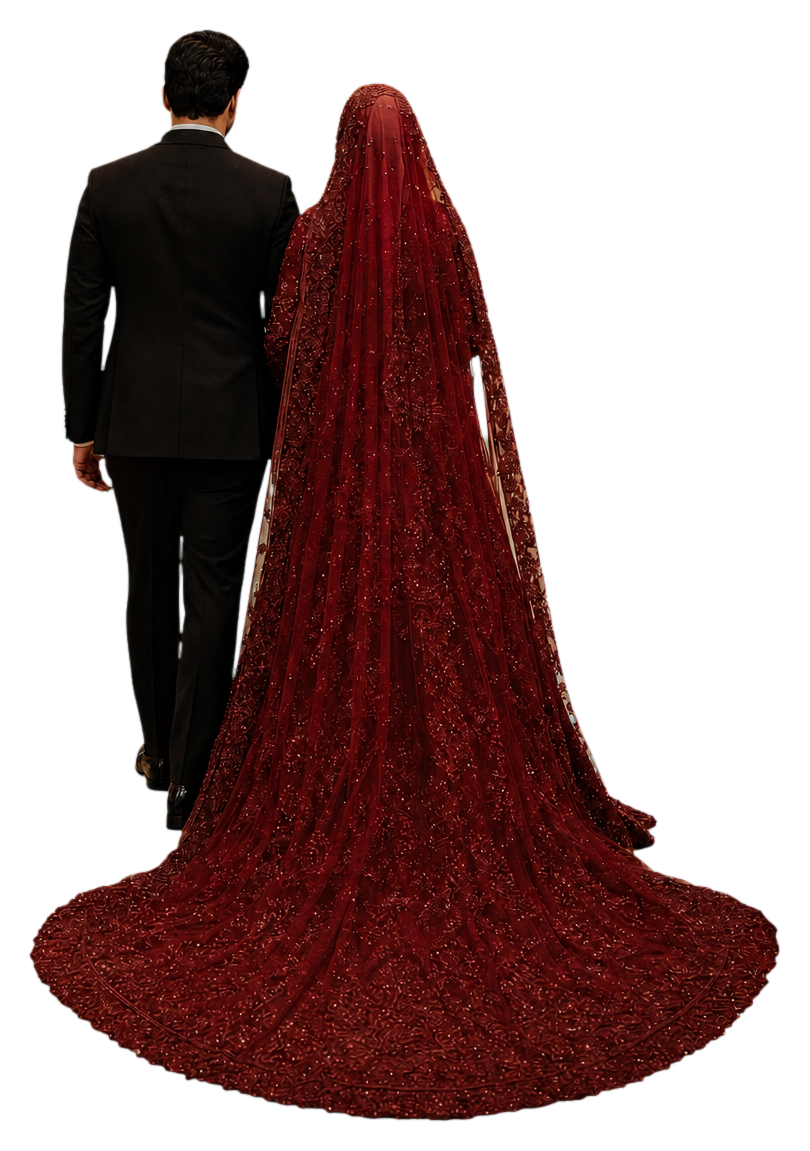
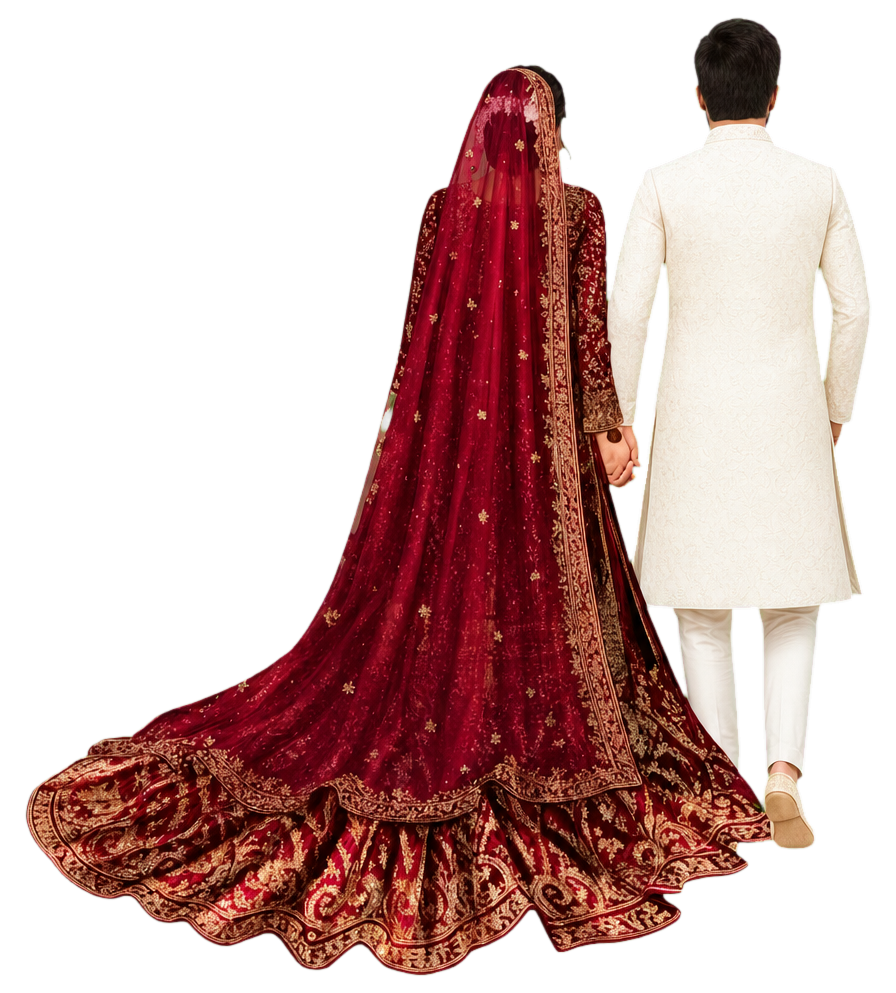
added imags

diff --git a/src/components/WeddingCard.tsx b/src/components/WeddingCard.tsx
@@ -1,6 +1,7 @@
 import { useEffect, useState, type CSSProperties } from "react";
 import { AnimatePresence, motion, type Transition } from "framer-motion";
 import { CornerFlourish, Monogram, PatternBg } from "./Ornaments";
+import type { InvitationVariant } from "../variants";
 
 const CHARGE_MS = 1200; // light traces around the seal
 const SURGE_MS = 650; // light runs out along the V edges
@@ -141,7 +142,7 @@ function EnvPaper({ variant = "env" }: { variant?: "env" | "liner" }) {
         }}
       />
       <div
-        className={`absolute inset-0 mix-blend-multiply ${
+        className={`envelope-tint absolute inset-0 mix-blend-multiply ${
           variant === "liner" ? "bg-[image:var(--env-liner)]" : "bg-[image:var(--env)]"
         }`}
       />
@@ -151,9 +152,16 @@ function EnvPaper({ variant = "env" }: { variant?: "env" | "liner" }) {
 
 type Phase = "closed" | "charging" | "surge" | "opening";
 
-export function WeddingCard({ onOpened }: { onOpened: () => void }) {
+export function WeddingCard({
+  onOpened,
+  variant = "wedding",
+}: {
+  onOpened: () => void;
+  variant?: InvitationVariant;
+}) {
   const [phase, setPhase] = useState<Phase>("closed");
   const [gone, setGone] = useState(false);
+  const nikah = variant === "nikah";
 
   const charging = phase === "charging";
   const surge = phase === "surge";
@@ -186,7 +194,7 @@ export function WeddingCard({ onOpened }: { onOpened: () => void }) {
           onClick={start}
           role="button"
           tabIndex={0}
-          aria-label="Tap to open the invitation"
+          aria-label={nikah ? "Tap to open the Nikah invitation" : "Tap to open the invitation"}
           onKeyDown={(e) => (e.key === "Enter" || e.key === " ") && start()}
         >
           {/* Bottom sleeve — plain envelope colour; slides down to reveal the card */}
@@ -198,7 +206,7 @@ export function WeddingCard({ onOpened }: { onOpened: () => void }) {
             transition={{ duration: SLIDE_MS / 1000, delay: opening ? SLIDE_DELAY / 1000 : 0, ease }}
           >
             <EnvPaper />
-            <PatternBg id="env-lower-pat" opacity={0.1} className="absolute inset-0" />
+            <PatternBg id="env-lower-pat" opacity={0.1} className="envelope-pattern absolute inset-0" />
             {/* gold V edge along the sleeve's top — glows when lit */}
             <svg
               className="pointer-events-none absolute inset-0 h-full w-full"
@@ -221,7 +229,7 @@ export function WeddingCard({ onOpened }: { onOpened: () => void }) {
               className="absolute bottom-[13vh] left-1/2 z-10 -translate-x-1/2 whitespace-nowrap font-serif text-[0.8rem] uppercase tracking-[0.28em]"
               style={{ color: "var(--env-ink)", textShadow: "0 1px 2px rgba(0,0,0,0.18)" }}
             >
-              Mohd Shamoon &amp; Alina Fatima
+              {nikah ? "Alina Fatima & Mohd Shamoon" : "Mohd Shamoon & Alina Fatima"}
             </span>
           </motion.div>
 
@@ -236,7 +244,7 @@ export function WeddingCard({ onOpened }: { onOpened: () => void }) {
             {/* front */}
             <div className={`absolute inset-0 isolate overflow-hidden [backface-visibility:hidden] ${TRI}`}>
               <EnvPaper />
-              <PatternBg id="env-flap-pat" opacity={0.1} className="absolute inset-0" />
+              <PatternBg id="env-flap-pat" opacity={0.1} className="envelope-pattern absolute inset-0" />
               <div className="pointer-events-none absolute inset-0 bg-[linear-gradient(180deg,rgba(255,255,255,0.08),transparent_30%,rgba(0,0,0,0.18))]" />
               <TriBorder glow={lit} />
               <CornerFlourish className="absolute left-3 top-3 h-14 w-14" />
@@ -246,7 +254,7 @@ export function WeddingCard({ onOpened }: { onOpened: () => void }) {
             {/* underside liner */}
             <div className={`absolute inset-0 isolate overflow-hidden [backface-visibility:hidden] [transform:rotateX(180deg)] ${TRI}`}>
               <EnvPaper variant="liner" />
-              <PatternBg id="env-flap-back" opacity={0.18} className="absolute inset-0" />
+              <PatternBg id="env-flap-back" opacity={0.18} className="envelope-pattern absolute inset-0" />
               <TriBorder />
             </div>
 
@@ -293,7 +301,7 @@ export function WeddingCard({ onOpened }: { onOpened: () => void }) {
                 className="h-3 w-3 animate-tap-pulse rounded-full border-[1.5px]"
                 style={{ borderColor: "var(--env-gold)" }}
               />
-              Tap to open
+              {nikah ? "Tap to open Nikah" : "Tap to open"}
             </motion.div>
           )}
         </motion.div>

diff --git a/src/components/Invitation.tsx b/src/components/Invitation.tsx
@@ -79,6 +79,12 @@ export function Invitation({
 
   const variantConfig = invitationVariants[variant];
   const reception = variant === "reception";
+  const nikah = variant === "nikah";
+  const firstName = nikah ? t.names.bride : t.names.groom;
+  const firstParent = nikah ? t.names.brideParent : t.names.groomParent;
+  const secondName = nikah ? t.names.groom : t.names.bride;
+  const secondParent = nikah ? t.names.groomParent : t.names.brideParent;
+  const occasionLabel = reception ? "Reception" : nikah ? "Nikah" : "Wedding";
   const eventKeys = ["nikah", "walima"] as const;
   const events = variantConfig.eventIndexes.map((index) => ({ event: wedding.events[index], index }));
 
@@ -134,11 +140,11 @@ export function Invitation({
         </Reveal>
 
         <Reveal className="mb-1.5 mt-6 flex flex-col items-center gap-1">
-          <h1 className={nameCls}>{t.names.groom}</h1>
-          <p className={parentCls}>{t.names.groomParent}</p>
+          <h1 className={nameCls}>{firstName}</h1>
+          <p className={parentCls}>{firstParent}</p>
           <span className="font-serif text-2xl italic text-accent">&amp;</span>
-          <h1 className={nameCls}>{t.names.bride}</h1>
-          <p className={parentCls}>{t.names.brideParent}</p>
+          <h1 className={nameCls}>{secondName}</h1>
+          <p className={parentCls}>{secondParent}</p>
         </Reveal>
 
         {pinkReception && (
@@ -174,7 +180,7 @@ export function Invitation({
                 <p className="text-sm text-muted2">{e.address}</p>
                 <EventActions event={e} maps={e.maps} />
               </div>
-              {variant === "wedding" && index === 0 && <NikahCoupleScene />}
+              {variant !== "reception" && index === 0 && <NikahCoupleScene />}
               {variant === "wedding" && index === 1 && <ReceptionDanceScene />}
             </Fragment>
           ))}
@@ -210,8 +216,8 @@ export function Invitation({
         <Reveal className="mt-8 flex justify-center">
           <ShareButton
             url={`${wedding.siteUrl}${sharePath ?? variantConfig.sharePath}`}
-            title={`${wedding.groom} & ${wedding.bride} — ${reception ? "Reception" : "Wedding"}`}
-            text={`You're invited to the ${reception ? "wedding reception" : "wedding"} of ${wedding.groom} & ${wedding.bride}!`}
+            title={`${wedding.groom} & ${wedding.bride} — ${occasionLabel}`}
+            text={`You're invited to the ${reception ? "wedding reception" : nikah ? "Nikah" : "wedding"} of ${wedding.groom} & ${wedding.bride}!`}
           />
         </Reveal>
 

diff --git a/src/App.tsx b/src/App.tsx
@@ -31,15 +31,21 @@ export default function App() {
   const occasion =
     route === "wedding"
       ? "wedding"
-      : route === "reception"
-        ? "reception-pink"
-        : route === "reception-classic"
-          ? "reception"
-          : route === "seating"
-            ? "seating"
-            : "blank";
+      : route === "nikah"
+        ? "nikah"
+        : route === "reception"
+          ? "reception-pink"
+          : route === "reception-classic"
+            ? "reception"
+            : route === "seating"
+              ? "seating"
+              : "blank";
   const variant: InvitationVariant =
-    occasion === "reception" || occasion === "reception-pink" ? "reception" : "wedding";
+    occasion === "reception" || occasion === "reception-pink"
+      ? "reception"
+      : occasion === "nikah"
+        ? "nikah"
+        : "wedding";
 
   useLayoutEffect(() => {
     document.documentElement.dataset.occasion = occasion;
@@ -51,11 +57,13 @@ export default function App() {
           ? "#2a3149"
           : occasion === "reception"
             ? "#ffffff"
-        : occasion === "reception-pink"
-          ? "#f4dce2"
-          : theme === "emerald"
-            ? "#0f3d2e"
-            : "#e6d6b3";
+            : occasion === "reception-pink"
+              ? "#f4dce2"
+              : occasion === "nikah"
+                ? "#edcbc8"
+                : theme === "emerald"
+                  ? "#0f3d2e"
+                  : "#e6d6b3";
     meta?.setAttribute("content", barColor);
     return () => {
       delete document.documentElement.dataset.occasion;
@@ -86,7 +94,7 @@ export default function App() {
       {/* full-screen paper texture behind everything */}
       <PatternBg id="page-pat" opacity={0.06} className="pointer-events-none fixed inset-0 z-0" />
 
-      {variant === "wedding" && <ThemeToggle theme={theme} setTheme={setTheme} />}
+      {occasion === "wedding" && <ThemeToggle theme={theme} setTheme={setTheme} />}
       <LangToggle />
       <BackgroundMusic start={opened} />
 
@@ -99,7 +107,7 @@ export default function App() {
         sharePath={occasion === "reception" ? "reception-classic/" : occasion === "reception-pink" ? "reception/" : `#/${route}`}
       />
 
-      <WeddingCard key={variant} onOpened={() => setOpened(true)} />
+      <WeddingCard key={variant} variant={variant} onOpened={() => setOpened(true)} />
 
       <AnimatePresence>
         {opened && (

diff --git a/public/nikah/index.html b/public/nikah/index.html
@@ -1,0 +1,40 @@
+<!doctype html>
+<html lang="en">
+  <head>
+    <meta charset="UTF-8" />
+    <meta name="viewport" content="width=device-width, initial-scale=1.0" />
+    <meta name="theme-color" content="#edcbc8" />
+    <title>Alina Fatima &amp; Mohd Shamoon · Nikah</title>
+    <meta
+      name="description"
+      content="Join us for the Nikah of Alina Fatima and Mohd Shamoon on Wednesday, 24 March 2027 at Blessing Garden, Baheri."
+    />
+    <meta property="og:type" content="website" />
+    <meta property="og:site_name" content="Alina &amp; Shamoon — Nikah" />
+    <meta property="og:url" content="https://mdshamoon.github.io/wedding-card/nikah/" />
+    <meta property="og:title" content="Alina Fatima &amp; Mohd Shamoon — Nikah Invitation" />
+    <meta
+      property="og:description"
+      content="Wednesday, 24 March 2027 at 11:00 AM · Blessing Garden, Baheri, Uttar Pradesh."
+    />
+    <meta property="og:image" content="https://mdshamoon.github.io/wedding-card/images/nikah-walking-couple.png" />
+    <meta property="og:image:secure_url" content="https://mdshamoon.github.io/wedding-card/images/nikah-walking-couple.png" />
+    <meta property="og:image:type" content="image/png" />
+    <meta property="og:image:width" content="810" />
+    <meta property="og:image:height" content="1151" />
+    <meta property="og:image:alt" content="Alina Fatima and Mohd Shamoon — Nikah invitation" />
+    <meta name="twitter:card" content="summary_large_image" />
+    <meta name="twitter:title" content="Alina Fatima &amp; Mohd Shamoon — Nikah Invitation" />
+    <meta
+      name="twitter:description"
+      content="Wednesday, 24 March 2027 at 11:00 AM · Blessing Garden, Baheri, Uttar Pradesh."
+    />
+    <meta name="twitter:image" content="https://mdshamoon.github.io/wedding-card/images/nikah-walking-couple.png" />
+    <script>
+      window.location.replace("../" + window.location.search + "#/nikah");
+    </script>
+  </head>
+  <body>
+    <p><a href="../#/nikah">Open the Nikah invitation</a></p>
+  </body>
+</html>

diff --git a/src/index.css b/src/index.css
@@ -86,6 +86,42 @@
   --bar: #0f3d2e;
 }
 
+/* ---- Occasion: Nikah — warm rose paper, ruby red & antique gold ---- */
+[data-occasion="nikah"] {
+  --grad-page: radial-gradient(105% 72% at 50% -8%, #fff9f5 0%, #f7e4df 48%, #edcbc8 100%);
+  --card-bg: radial-gradient(130% 65% at 50% 0%, rgba(255, 255, 255, .74), transparent 62%),
+    linear-gradient(180deg, rgba(255, 248, 245, .8), rgba(241, 208, 205, .48));
+  --card-shadow: 0 22px 62px rgba(112, 43, 51, .19);
+  --box-bg: linear-gradient(160deg, rgba(255, 255, 255, .7), rgba(242, 211, 208, .58));
+  --cd-box-bg: linear-gradient(160deg, rgba(255, 252, 249, .94), rgba(239, 202, 201, .72));
+  --cd-box-shadow: inset 0 1px 0 rgba(255, 255, 255, .86), 0 7px 18px rgba(112, 43, 51, .15);
+  --vignette: radial-gradient(70% 55% at 50% 45%, transparent 58%, rgba(142, 55, 65, .14) 100%);
+  --fold-color: rgba(113, 42, 51, .17);
+  --pulse-color: rgba(166, 62, 75, .42);
+  --ink: #57242b;
+  --muted: rgba(87, 36, 43, .83);
+  --muted2: rgba(87, 36, 43, .63);
+  --accent: #a33d49;
+  --accent2: #c15f69;
+  --line: rgba(163, 61, 73, .38);
+  --accent-gradient: linear-gradient(135deg, #c87b72 0%, #9e3946 46%, #b9515b 72%, #d59587 100%);
+  --seal-gold: linear-gradient(135deg, #c9676e 0%, #a33d49 44%, #742333 72%, #b94f59 100%);
+  --seal-edge: #7e2937;
+  --seal-ink: #fffdf8;
+  --seal-ink2: #ffe8ca;
+  --env: linear-gradient(180deg, #b54d59 0%, #89303c 100%);
+  --env-liner: linear-gradient(160deg, #7a2632 0%, #5b1822 100%);
+  --env-gold: #f0d080;
+  --env-ink: #fff4d8;
+  --bar: #edcbc8;
+}
+
+/* Let the cream-fibre photograph remain visible beneath the red envelope tint. */
+[data-occasion="nikah"] .envelope-tint { opacity: .84; }
+
+/* The Nikah cover uses the paper grain alone, without the damask overlay. */
+[data-occasion="nikah"] .envelope-pattern { display: none; }
+
 /* ---- Occasion: Reception — blush paper, dusty rose & antique gold ---- */
 [data-occasion="reception"],
 [data-occasion="reception-pink"] {

diff --git a/src/components/Ornaments.tsx b/src/components/Ornaments.tsx
@@ -1,3 +1,5 @@
+import { useId } from "react";
+
 // Hand-drawn gold SVG ornaments — no external images, so nothing can break.
 
 type SvgProps = React.SVGProps<SVGSVGElement>;
@@ -52,15 +54,17 @@ export function Divider({ width = 220, ...props }: SvgProps & { width?: number }
 
 /** Monogram medallion — the initials S & A inside a crescent-and-ring seal. */
 export function Monogram({ size = 96, ...props }: SvgProps & { size?: number }) {
+  const gradientId = `mono-gold-${useId().replace(/:/g, "")}`;
+
   return (
     <svg viewBox="0 0 100 100" width={size} height={size} fill="none" aria-hidden {...props}>
-      {goldDefs("mono-gold")}
-      <circle cx="50" cy="50" r="46" stroke="url(#mono-gold)" strokeWidth="1.4" />
-      <circle cx="50" cy="50" r="40" stroke="url(#mono-gold)" strokeWidth="0.8" opacity="0.6" />
+      {goldDefs(gradientId)}
+      <circle cx="50" cy="50" r="46" stroke={`url(#${gradientId})`} strokeWidth="1.4" />
+      <circle cx="50" cy="50" r="40" stroke={`url(#${gradientId})`} strokeWidth="0.8" opacity="0.6" />
       {/* crescent */}
       <path
         d="M64 22 a 32 32 0 1 0 0 56 a 26 26 0 1 1 0 -56 z"
-        fill="url(#mono-gold)"
+        fill={`url(#${gradientId})`}
         opacity="0.14"
       />
       <text
@@ -69,7 +73,7 @@ export function Monogram({ size = 96, ...props }: SvgProps & { size?: number }) 
         textAnchor="middle"
         fontFamily="Great Vibes, cursive"
         fontSize="34"
-        fill="url(#mono-gold)"
+        fill={`url(#${gradientId})`}
       >
         S&amp;A
       </text>

diff --git a/src/variants.ts b/src/variants.ts
@@ -1,10 +1,15 @@
-export type InvitationVariant = "wedding" | "reception";
+export type InvitationVariant = "wedding" | "nikah" | "reception";
 
 export const invitationVariants = {
   wedding: {
     eventIndexes: [0, 1],
     countdownTarget: "2027-03-24T11:00:00",
     sharePath: "#/wedding",
+  },
+  nikah: {
+    eventIndexes: [0],
+    countdownTarget: "2027-03-24T11:00:00",
+    sharePath: "nikah/",
   },
   reception: {
     eventIndexes: [1],

diff --git a/index.html b/index.html
@@ -17,6 +17,9 @@
         } else if (route === "reception-classic") {
           document.documentElement.dataset.occasion = "reception";
           barColor = "#ffffff";
+        } else if (route === "nikah") {
+          document.documentElement.dataset.occasion = "nikah";
+          barColor = "#edcbc8";
         } else if (route === "wedding") {
           document.documentElement.dataset.occasion = "wedding";
           barColor = "#e6d6b3";

diff --git a/src/theme.ts b/src/theme.ts
@@ -27,7 +27,7 @@ function apply(theme: Theme) {
     document.documentElement.dataset.theme = theme;
   }
 
-  // Reception routes own their browser-bar color. Do not briefly overwrite it
+  // Occasion routes own their browser-bar color. Do not briefly overwrite it
   // with the saved wedding theme while React mounts.
   const occasion = document.documentElement.dataset.occasion;
   if (!occasion || occasion === "wedding") {
